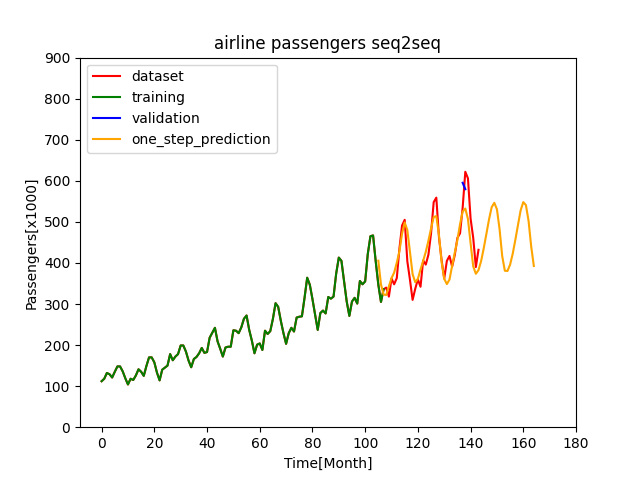
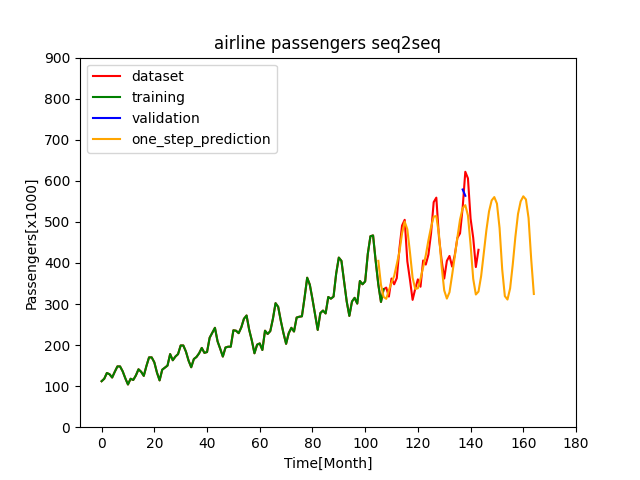
refactor seq2seq Forecaster in seperate child class

Changed region(s): [[0.5938, 0.375, 0.8438, 0.625], [0.6875, 0.4688, 0.7188, 0.5]]

diff --git a/TimeSeriesPrediction/UnivariatTimeSeriesForecast/AirlinePassengers/airline_passengers_utilities.py b/TimeSeriesPrediction/UnivariatTimeSeriesForecast/AirlinePassengers/airline_passengers_utilities.py
@@ -26,7 +26,7 @@ class TimeSeriesGenerator:
         self.lookback = lookback
         self.lookout = lookout
 
-    def create_timeseries(self) -> np.ndarray:
+    def create_timeseries(self) -> (np.ndarray, np.ndarray):
         inputs, targets = list(), list()
         for element in range(self.lookback, len(self.data)-self.lookout-1):
             inputs.append(self._get_timeseries(element))
@@ -58,21 +58,13 @@ class Forecaster:
         for element in range(0, self.number_of_predictions):
             prediction = self.model.predict(self.current_value)
             one_step_ahead_forecast.append(self._getFeature(prediction))
-            self.current_value = self.__move_numpy_queue(prediction)
+            self.current_value = self._move_numpy_queue(prediction)
         return one_step_ahead_forecast
-
-    def seq2seq_one_step_ahead(self):
-        forecast = list()
-        for element in range(0, self.number_of_predictions):
-            prediction = self.model.predict([self.current_value, self.current_target])
-            forecast.append(prediction[0][0][0])
-            self.current_value = self.__move_numpy_queue(prediction)
-        return forecast
 
     def _getFeature(self, prediction):
         return prediction[0][0]
 
-    def __move_numpy_queue(self, prediction):
+    def _move_numpy_queue(self, prediction):
         self.current_value = np.delete(self.current_value, 0)
         self.current_value = np.append(self.current_value, prediction)
         return self.__format_dimension()
@@ -87,6 +79,22 @@ class Forecaster:
                 return self.current_value.reshape(1, self.current_value.shape[0])
             case _:
                 return self.current_value
+
+
+class Seq2SeqForecaster(Forecaster):
+    def __init__(self, model, start_value, number_of_predictions, output_dimension_type, current_target=None):
+        Forecaster.__init__(self, model, start_value, number_of_predictions, output_dimension_type, current_target)
+
+    def one_step_ahead(self):
+        forecast = list()
+        for element in range(0, self.number_of_predictions):
+            prediction = self.model.predict([self.current_value, self.current_target])
+            forecast.append(self.__getFeature(prediction))
+            self.current_value = Forecaster._move_numpy_queue(self, prediction)
+        return forecast
+
+    def __getFeature(self, prediction):
+        return prediction[0][0][0]
 
 
 def plot_results(prediction: pd.Series, validation: pd.Series, name):

diff --git a/TimeSeriesPrediction/UnivariatTimeSeriesForecast/AirlinePassengers/Keras/Seq2Seq/airline_passengers_keras_seq2seq_workflow.py b/TimeSeriesPrediction/UnivariatTimeSeriesForecast/AirlinePassengers/Keras/Seq2Seq/airline_passengers_keras_seq2seq_workflow.py
@@ -39,12 +39,12 @@ def workflow(model):
 
     start_target = train_targets_series[start_index]
     start_target_reshaped = start_target.reshape(1, start_target.shape[0], start_target.shape[1])
-    prediction_results = Forecaster(
+    prediction_results = Seq2SeqForecaster(
                                     model,
                                     start_value_reshaped,
                                     hyperparameters["number_of_predictions"],
                                     NeuronalNetworkTypes.LSTM,
-                                    np.zeros_like(start_target_reshaped)).seq2seq_one_step_ahead()
+                                    np.zeros_like(start_target_reshaped)).one_step_ahead()
 
     prediction = pd.DataFrame()
     prediction["one_step_prediction"] = train_scaler.inverse_transform([prediction_results]).flatten()
